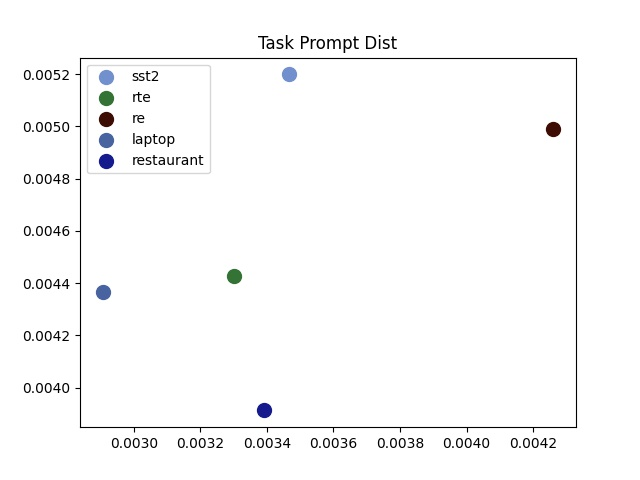
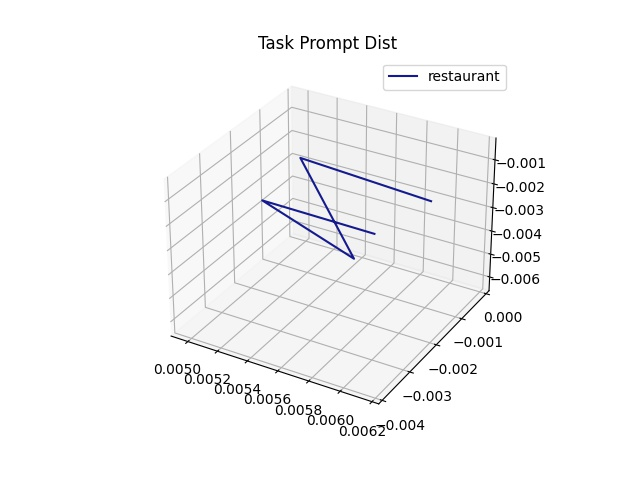
update

diff --git a/draw_cuda_taskprompt.py b/draw_cuda_taskprompt.py
@@ -365,7 +365,7 @@ print("===================")
 print("===================")
 
 ##3D or 2D
-dim=2
+dim=3
 compressed_prompt_emb = train_AE(input=all_prompt_emb,out_features=dim)
 #compressed_prompt_emb = PCA_svd(X=all_prompt_emb,k=dim)
 print(compressed_prompt_emb.shape)
@@ -397,20 +397,36 @@ if dim ==3:
     #axes = plt.subplot(222, projection='3d')
 else:
     pass
+x_list = list()
+y_list = list()
+z_list = list()
+color_list = list()
+label_list = list()
 for task_id, task_name in task_map.items():
     print(task_id)
     if task_id in blocked_list:
         continue
 
     print(compressed_prompt_emb[task_id])
+    x_list.append(compressed_prompt_emb[task_id][0])
+    y_list.append(compressed_prompt_emb[task_id][1])
+    z_list.append(compressed_prompt_emb[task_id][2])
+    color_list.append(color_map[task_id])
+    label_list.append(task_map[task_id])
 
     if dim == 2:
         plt.scatter(compressed_prompt_emb[task_id][0], compressed_prompt_emb[task_id][1], color=color_map[task_id], label=task_map[task_id], s=100)
     elif dim == 3:
-        axes.plot(compressed_prompt_emb[task_id][0], compressed_prompt_emb[task_id][1], compressed_prompt_emb[task_id][2], color=color_map[task_id], label=task_map[task_id])
+        #axes.plot(compressed_prompt_emb[task_id][0], compressed_prompt_emb[task_id][1], compressed_prompt_emb[task_id][2], color=color_map[task_id], label=task_map[task_id])
+        continue
     else:
         print("Wonrg!!!")
         exit()
+
+if dim == 2:
+    pass
+elif dim == 3:
+    axes.plot(x_list, y_list, z_list, color=color_map[task_id], label=task_map[task_id])
 
 
 plt.legend()
